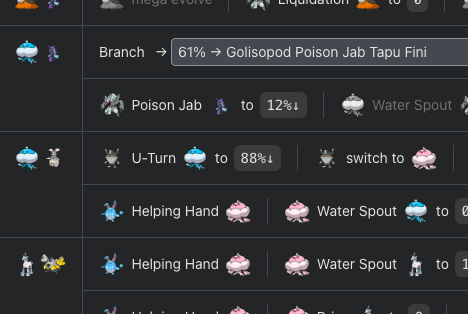
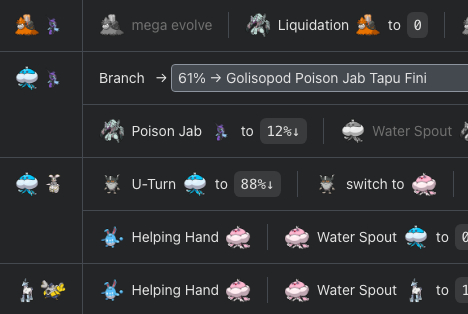
fix feature snapshots

diff --git a/site/tests/guide.spec.ts b/site/tests/guide.spec.ts
@@ -176,7 +176,7 @@ async function getFeatureSnapshot(
 
     const filename = slugify([...parts, featureIndex.value++]).replace(/battle|table/g, "feature");
     await expectSnapshot(page, `${filename}.png`, {
-      clip: { x: box.x + 4, y: box.y + 61, width: 468, height: 314 },
+      clip: { x: box.x + 4, y: box.y + 35, width: 468, height: 314 },
     });
 
     if (["all", "changed"].includes(test.info().config.updateSnapshots)) {
